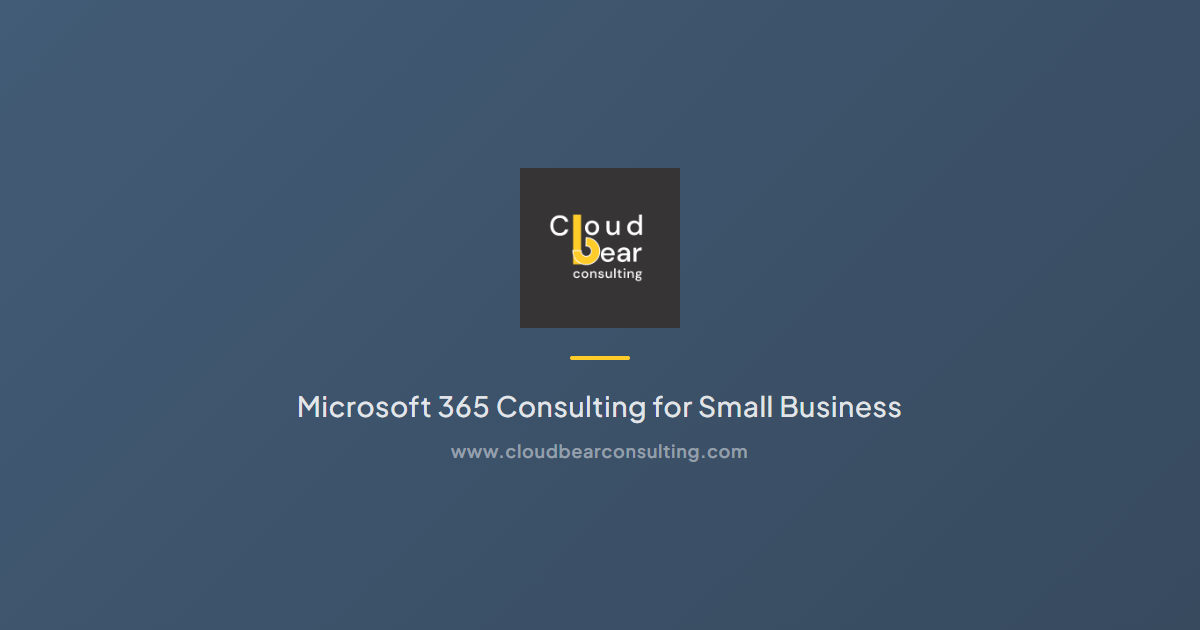
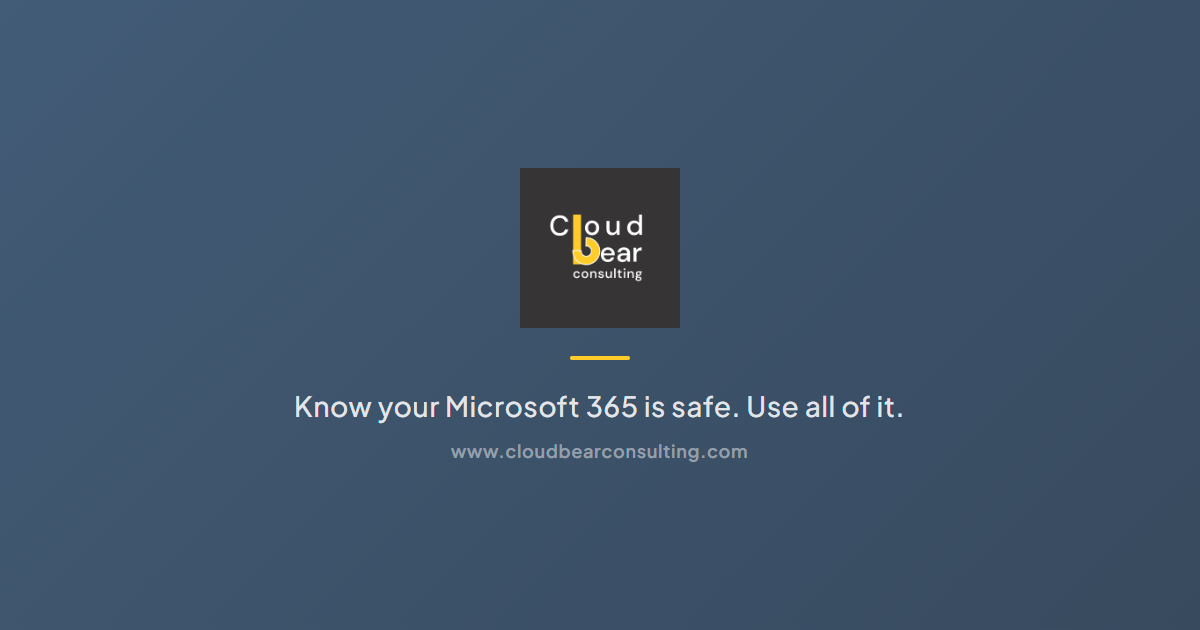
Update OG image tagline to "Know your Microsoft 365 is safe. Use all of it."

Changed region(s): [[0.2467, 0.6333, 0.7708, 0.6635]]

diff --git a/og-image-generator.html b/og-image-generator.html
@@ -1,0 +1,78 @@
+<!DOCTYPE html>
+<html>
+<head>
+    <meta charset="UTF-8">
+    <title>OG Image Generator</title>
+    <link rel="preconnect" href="https://fonts.googleapis.com">
+    <link rel="preconnect" href="https://fonts.gstatic.com" crossorigin>
+    <link href="https://fonts.googleapis.com/css2?family=Plus+Jakarta+Sans:wght@400;500;600;700&display=swap" rel="stylesheet">
+    <style>
+        * { margin: 0; padding: 0; box-sizing: border-box; }
+        body {
+            background: #e0e0e0;
+            display: flex;
+            flex-direction: column;
+            align-items: center;
+            justify-content: center;
+            min-height: 100vh;
+            font-family: 'Plus Jakarta Sans', sans-serif;
+        }
+        .instructions {
+            margin-bottom: 24px;
+            padding: 16px 24px;
+            background: #fff;
+            border-radius: 8px;
+            font-size: 14px;
+            color: #333;
+            max-width: 1200px;
+            text-align: center;
+        }
+        .instructions strong { color: #425B76; }
+        .og-image {
+            width: 1200px;
+            height: 630px;
+            background: linear-gradient(135deg, #425B76 0%, #374A5E 100%);
+            display: flex;
+            flex-direction: column;
+            align-items: center;
+            justify-content: center;
+            text-align: center;
+        }
+        .logo-img {
+            height: 160px;
+            margin-bottom: 28px;
+        }
+        .accent-bar {
+            width: 60px;
+            height: 4px;
+            background: #FFCC2A;
+            border-radius: 2px;
+            margin-bottom: 28px;
+        }
+        .tagline {
+            font-size: 28px;
+            font-weight: 500;
+            color: rgba(255, 255, 255, 0.85);
+            letter-spacing: 0.02em;
+            margin-bottom: 16px;
+        }
+        .website {
+            font-size: 18px;
+            font-weight: 600;
+            color: rgba(255, 255, 255, 0.45);
+            letter-spacing: 0.04em;
+        }
+    </style>
+</head>
+<body>
+    <div class="instructions">
+        <strong>How to save:</strong> Right-click the image below &rarr; Inspect Element &rarr; select the <code>.og-image</code> div &rarr; right-click in DevTools &rarr; "Capture node screenshot".
+    </div>
+    <div class="og-image">
+        <img class="logo-img" src="./CloudBearConsulting Logo/Font logo Png/Font logo BgGr.png" alt="Cloud Bear Consulting">
+        <div class="accent-bar"></div>
+        <div class="tagline">Know your Microsoft 365 is safe. Use all of it.</div>
+        <div class="website">www.cloudbearconsulting.com</div>
+    </div>
+</body>
+</html>
